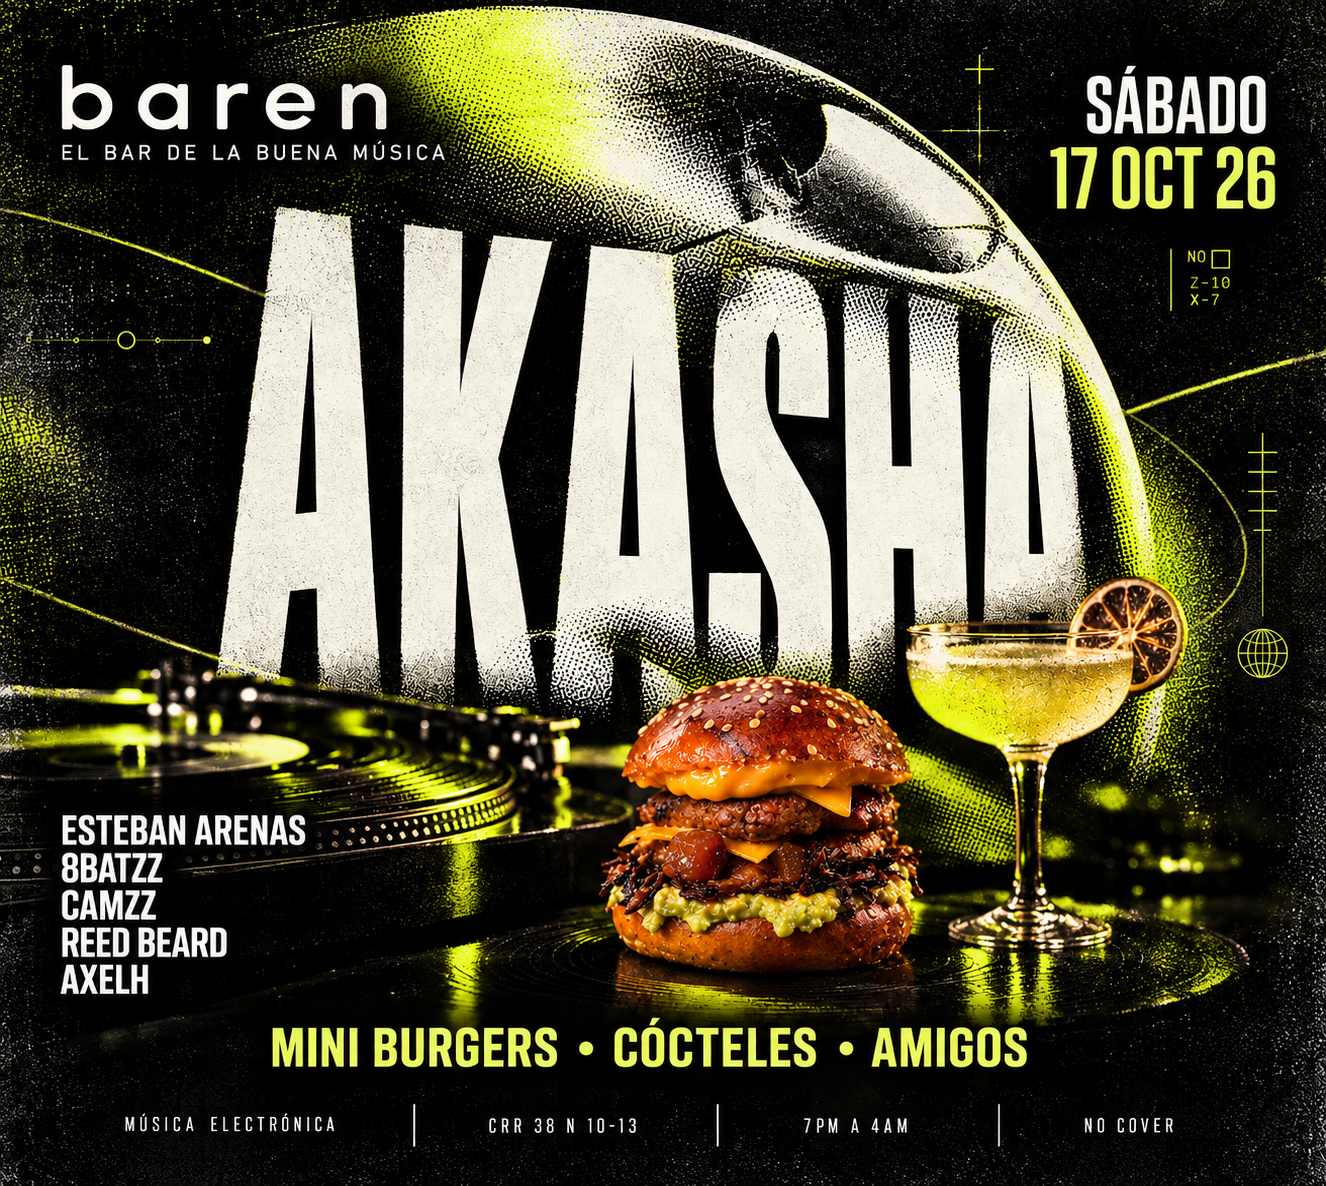
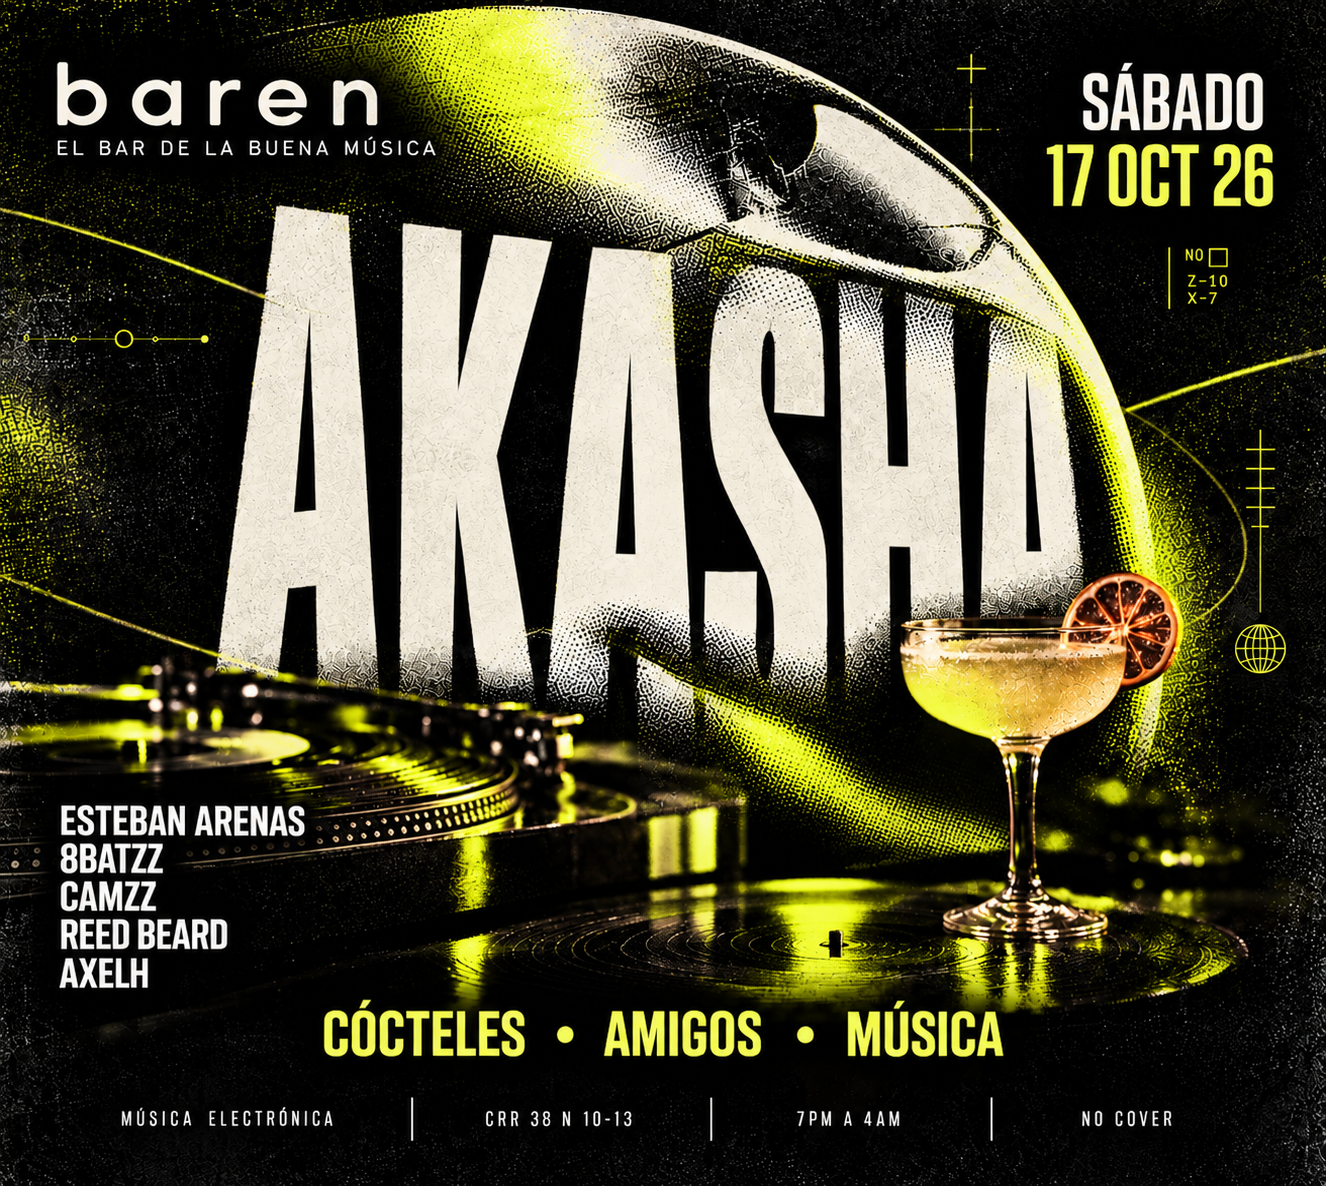
Update Akasha event assets and remove burger section

diff --git a/app/events/akasha/page.tsx b/app/events/akasha/page.tsx
@@ -1,7 +1,6 @@
 import Image from "next/image"
 import { ArrowRight, Clock3, MapPin, Music2, Ticket } from "lucide-react"
 import { AkashaFrequencyMarquee } from "@/components/akasha/akasha-frequency-marquee"
-import { AkashaFoodFeature } from "@/components/akasha/akasha-food-feature"
 import { AkashaHero } from "@/components/akasha/akasha-hero"
 import { AkashaLineup } from "@/components/akasha/akasha-lineup"
 import { AkashaScrollProgress } from "@/components/akasha/akasha-scroll-progress"
@@ -109,13 +108,12 @@ export default function AkashaPage() {
 
       <AkashaFrequencyMarquee reverse />
       <AkashaLineup />
-      <AkashaFoodFeature />
 
       <section className="border-b border-white/[0.1] bg-[#171717]/50 py-24 sm:py-32 lg:py-40">
         <div className="mx-auto max-w-[1600px] px-5 sm:px-8 lg:px-[5vw]">
           <ScrollReveal>
             <div className="flex flex-col justify-between gap-7 lg:flex-row lg:items-end">
-              <div><p className="akasha-kicker text-[#d9ff20]">06 / Archivo</p><h2 className="akasha-display mt-6 text-[clamp(3.5rem,8vw,8rem)] font-black uppercase leading-[0.78] tracking-[-0.08em] text-[#e9e5d8]">Noches que<br /><span className="text-white/30">dejaron huella.</span></h2></div>
+              <div><p className="akasha-kicker text-[#d9ff20]">05 / Archivo</p><h2 className="akasha-display mt-6 text-[clamp(3.5rem,8vw,8rem)] font-black uppercase leading-[0.78] tracking-[-0.08em] text-[#e9e5d8]">Noches que<br /><span className="text-white/30">dejaron huella.</span></h2></div>
               <p className="max-w-sm text-sm leading-relaxed text-white/45 lg:text-right">AKASHA abre la próxima frecuencia. ARKANA permanece en el archivo.</p>
             </div>
           </ScrollReveal>
@@ -135,7 +133,7 @@ export default function AkashaPage() {
         <div className="relative mx-auto max-w-4xl px-5 text-center sm:px-8">
           <ScrollReveal>
             <Music2 className="mx-auto h-7 w-7 text-[#d9ff20]" aria-hidden="true" />
-            <p className="akasha-kicker mt-8 text-[#d9ff20]">07 / Join the frequency</p>
+            <p className="akasha-kicker mt-8 text-[#d9ff20]">06 / Join the frequency</p>
             <h2 className="akasha-display mt-8 text-[clamp(4rem,10vw,10rem)] font-black uppercase leading-[0.75] tracking-[-0.09em] text-[#e9e5d8]">Nos vemos<br /><span className="text-[#d9ff20]">en AKASHA.</span></h2>
             <p className="mx-auto mt-8 max-w-xl text-base leading-relaxed text-white/55 sm:text-lg">Registra tus datos y recibe la información de acceso para la próxima frecuencia en Baren.</p>
             <a href="#contacto" className="group mt-10 inline-flex min-h-12 items-center gap-3 rounded-full border border-[#d9ff20] px-8 py-4 text-[10px] font-semibold uppercase tracking-[0.24em] text-[#d9ff20] transition-[background-color,color] duration-300 hover:bg-[#d9ff20] hover:text-[#050505] focus-visible:outline-none focus-visible:ring-2 focus-visible:ring-[#d9ff20]">Unirme a la fiesta <ArrowRight className="h-4 w-4 transition-transform duration-300 group-hover:translate-x-1" aria-hidden="true" /></a>

diff --git a/components/events/event-agenda-grid.tsx b/components/events/event-agenda-grid.tsx
@@ -50,7 +50,7 @@ function EventCard({ event, index }: { event: AgendaEvent; index: number }) {
           <div className="relative aspect-[1325/1187] overflow-hidden bg-[#141414]">
             <Image
               src={event.image}
-              alt={event.slug === "akasha" ? "Afiche oficial de AKASHA con la fecha, lineup, mini burgers y cócteles" : `Portada oficial del evento ${event.title}`}
+              alt={event.slug === "akasha" ? "Afiche oficial de AKASHA con la fecha, lineup y cócteles" : `Portada oficial del evento ${event.title}`}
               fill
               sizes="(min-width: 1280px) 25vw, (min-width: 768px) 50vw, 100vw"
               className="object-cover transition-transform duration-700 ease-[cubic-bezier(.22,1,.36,1)] group-hover:scale-[1.025]"

diff --git a/lib/events-agenda.ts b/lib/events-agenda.ts
@@ -31,7 +31,7 @@ export const agendaEvents: AgendaEvent[] = [
     time: "7PM — 4AM",
     genre: "Música electrónica",
     artists: ["Esteban Arenas", "8batzz", "Camzz", "Reed Beard", "Terry Golden"],
-    description: "Coctelería a la venta en Baren y mini burgers durante la fiesta. Girls First: primera ronda gratis para grupos de ellas.",
+    description: "Música electrónica, coctelería en Baren y una noche para encontrarnos alrededor de la frecuencia AKASHA.",
     accent: "lime",
   },
   {

diff --git a/app/events/page.tsx b/app/events/page.tsx
@@ -21,7 +21,7 @@ const featuredEvents = [
     title: "AKASHA",
     eyebrow: "Próximamente · Abrakadabra Realm",
     description:
-      "Música electrónica, coctelería en Baren y mini burgers durante la fiesta. Girls First: primera ronda gratis para grupos de ellas.",
+      "Música electrónica, coctelería en Baren y una noche para encontrarnos alrededor de la frecuencia AKASHA.",
     image: "/events/akasha/agenda-cover.png",
     href: "/events/akasha",
     date: "Sábado 17 de octubre",
